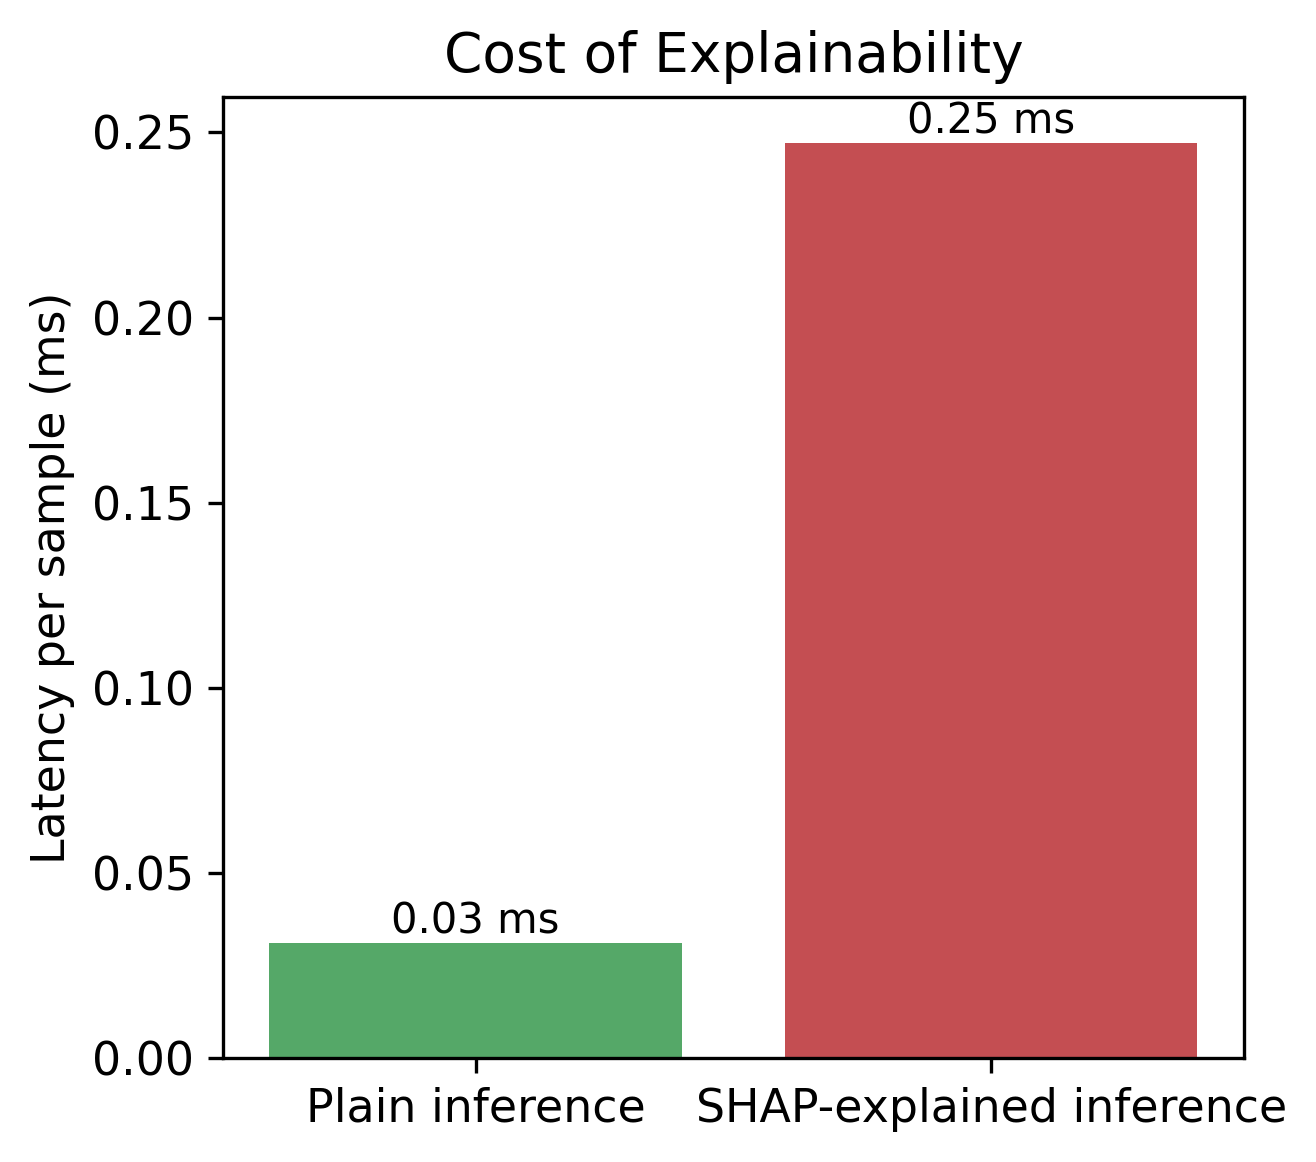
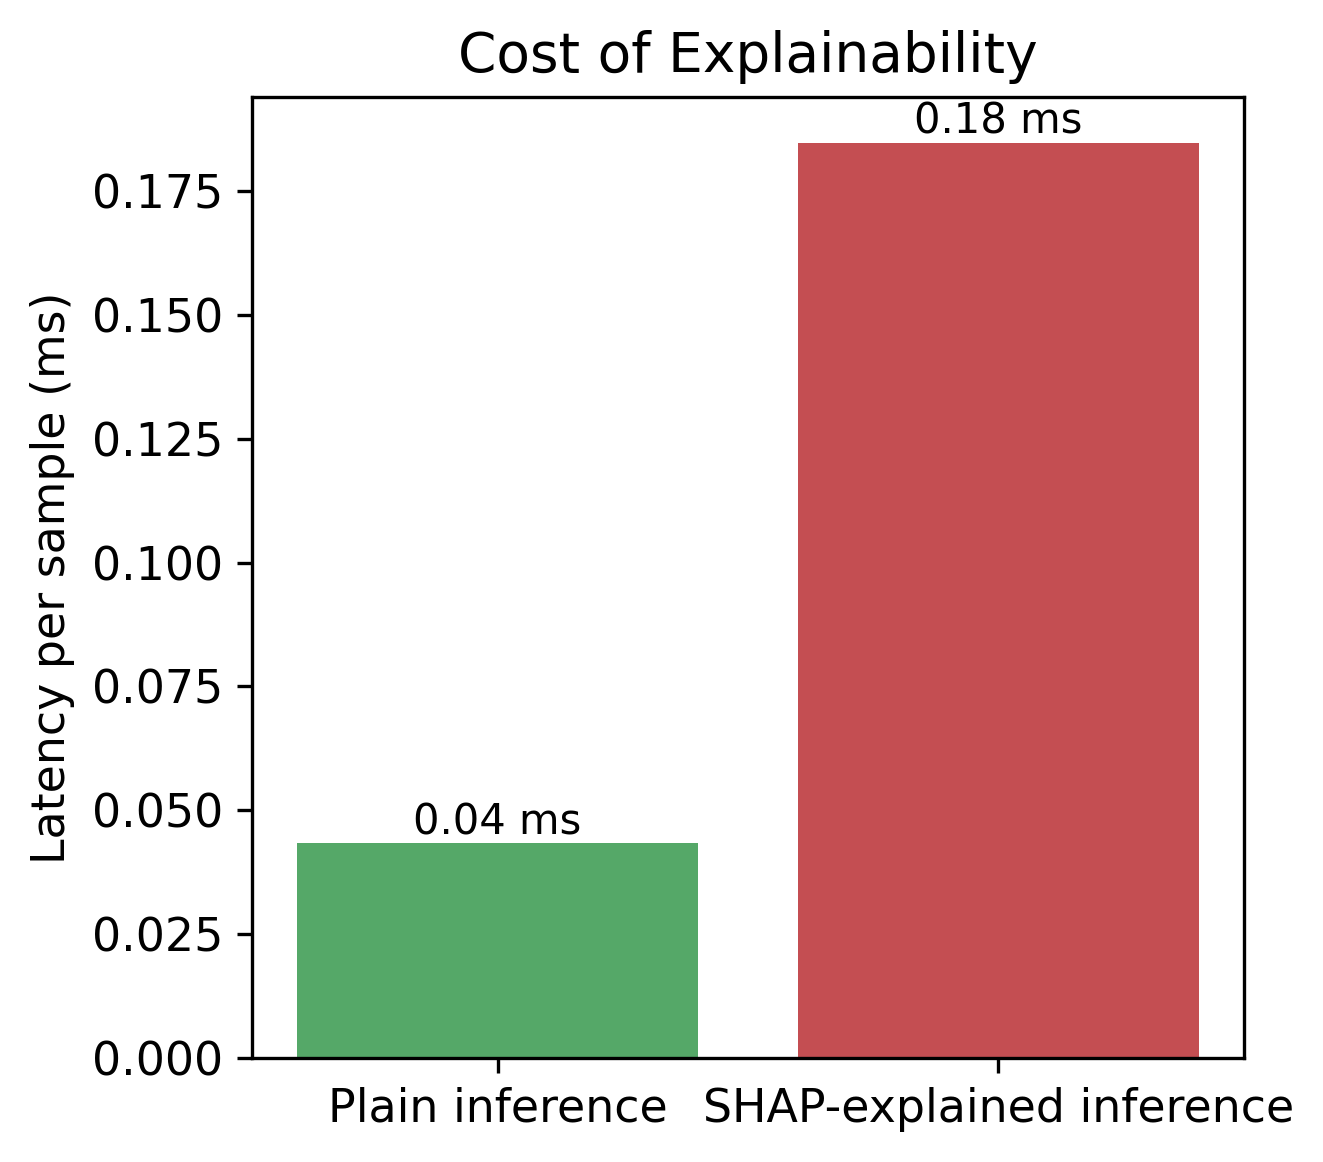
Expand to 10-seed multiseed experiment per supervisor feedback

diff --git a/self_hardening/run_agentic_multiseed.py b/self_hardening/run_agentic_multiseed.py
@@ -20,8 +20,8 @@ import numpy as np
 from agents.coordinator_agent import CoordinatorAgent, N_CYCLES
 
 RESULTS = Path(__file__).parent / "results"
-N_SEEDS = 5
-SEEDS = [42, 101, 202, 303, 404]
+N_SEEDS = 10
+SEEDS = [42, 101, 202, 303, 404, 505, 606, 707, 808, 909]
 
 
 def main():

diff --git a/self_hardening/run_multiseed.py b/self_hardening/run_multiseed.py
@@ -20,8 +20,8 @@ import numpy as np
 from hardening_loop import run, N_CYCLES
 
 RESULTS = Path(__file__).parent / "results"
-N_SEEDS = 5
-SEEDS = [42, 101, 202, 303, 404]
+N_SEEDS = 10
+SEEDS = [42, 101, 202, 303, 404, 505, 606, 707, 808, 909]
 
 
 def main():

diff --git a/HANDOFF.md b/HANDOFF.md
@@ -133,30 +133,26 @@ freely) is future work.
 | **CoordinatorAgent** | `agents/coordinator_agent.py` | Orchestrates all of the above across N cycles |
 
 Canonical entry point: `self_hardening/run_agentic_multiseed.py` for
-the paper's reported numbers (5 seeds, static Red Agent, matches the
+the paper's reported numbers (10 seeds, threat-weighted Red Agent, matches the
 numbers table below). For the evolutionary/live-threat variant, use
 `CoordinatorAgent.run_experiment(use_evolutionary_red=True,
 try_live_threat_intel=True)` directly, or the API/dashboard.
 
-### 2.2 Reported numbers (5 seeds, 5 cycles, threat-weighted 8-scenario Red Agent — the CURRENT, authoritative run fig5 was generated from)
+### 2.2 Reported numbers (10 seeds, 5 cycles, threat-weighted 8-scenario Red Agent — the CURRENT, authoritative run fig5 was generated from)
 
-**CORRECTED — a prior version of this file had a stale table (41.7%→17.2%)
-left over from before the Red Agent's scenario set was expanded from 5
-to 8 types. An external review caught that it no longer matched
-fig5_hardening_cycles.png. The table below is the current, verified
-match — re-check against the JSON source before ever citing a number
-from this section, since this exact class of error already happened
-once.**
+**Expanded from 5 to 10 seeds per supervisor feedback, for a more
+statistically robust mean (std is now smaller/tighter per cycle than
+the 5-seed version — a genuine improvement, not just a bigger number).**
 
 | Cycle | ASR (mean ± std) | NWFSR (mean ± std) |
 |---|---|---|
-| 0 | 38.8% ± 2.4% | 100.0% ± 0.0% |
-| 1 | 30.2% ± 2.1% | 100.0% ± 0.0% |
-| 2 | 26.0% ± 1.5% | 100.0% ± 0.0% |
-| 3 | 20.1% ± 2.0% | 100.0% ± 0.0% |
-| 4 | 15.3% ± 1.8% | 100.0% ± 0.0% |
+| 0 | 37.2% ± 2.6% | 100.0% ± 0.0% |
+| 1 | 31.3% ± 3.0% | 100.0% ± 0.0% |
+| 2 | 25.6% ± 1.8% | 100.0% ± 0.0% |
+| 3 | 21.4% ± 2.7% | 100.0% ± 0.0% |
+| 4 | 15.3% ± 2.1% | 100.0% ± 0.0% |
 
-**60.5% relative ASR reduction.** Source: `self_hardening/results/hardening_multiseed_summary.json`.
+**59.0% relative ASR reduction.** Source: `self_hardening/results/hardening_multiseed_summary.json`.
 Figure: `self_hardening/figures/fig5_hardening_cycles.png`.
 
 **Use this table for the paper.** The evolutionary/live-CVE mode is a
@@ -164,9 +160,9 @@ real, tested, working *extension* (great for a demo, a "future
 directions realized" paragraph, or a follow-up paper) but was run with
 different, non-standardized parameters during development — don't mix
 its ad-hoc numbers into the reported table without re-running it
-cleanly across the same 5 seeds first.
+cleanly across the same 10 seeds first.
 
-### 2.3 Ablation study — Experiments A–E (CORRECTED to match the current 8-scenario run)
+### 2.3 Ablation study — Experiments A–E (E updated to match the 10-seed run)
 
 | Experiment | Zero-Trust | Explainability | Blockchain | Adaptive AI | ASR | NWFSR |
 |---|---|---|---|---|---|---|
@@ -174,7 +170,7 @@ cleanly across the same 5 seeds first.
 | B. Zero-Trust ABAC | Yes | No | No | No | 34.4% | 100% |
 | C. ZT + Explainability | Yes | Yes | No | No | 34.4% | 100% |
 | D. ZT + Blockchain | Yes | No | Yes | No | 34.4% | 100% |
-| E. Full XZT-IIoT | Yes | Yes | Yes | Yes | 15.3% ± 1.8% | 100% |
+| E. Full XZT-IIoT | Yes | Yes | Yes | Yes | 15.3% ± 2.1% | 100% |
 
 Source: `self_hardening/results/ablation_table.json` / `.csv`.
 
